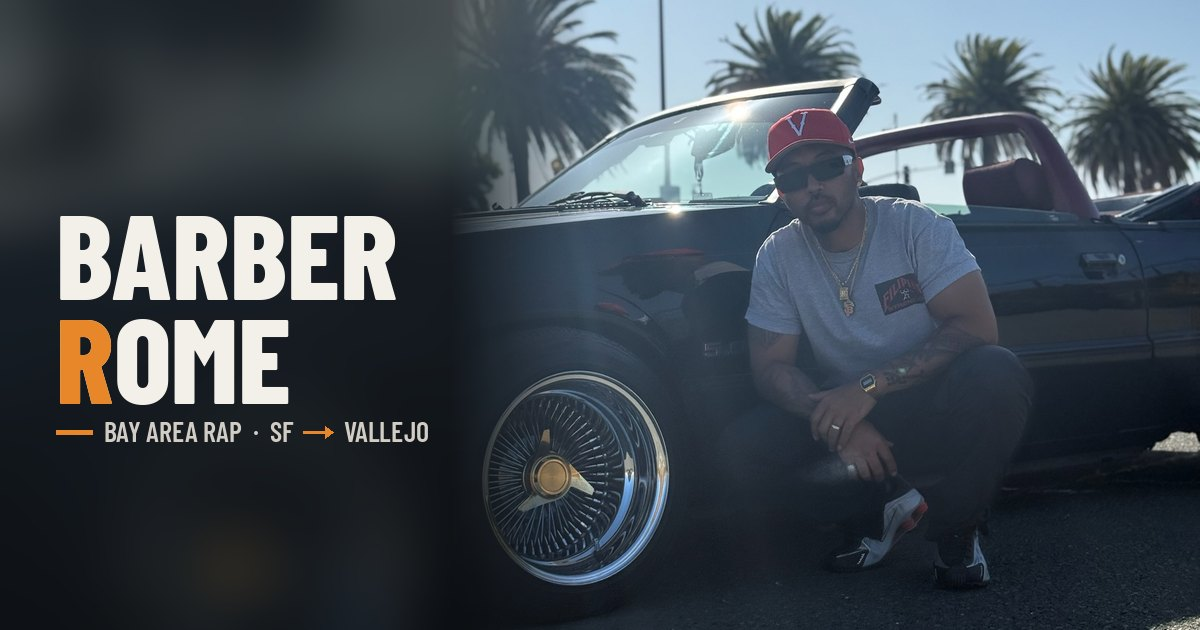
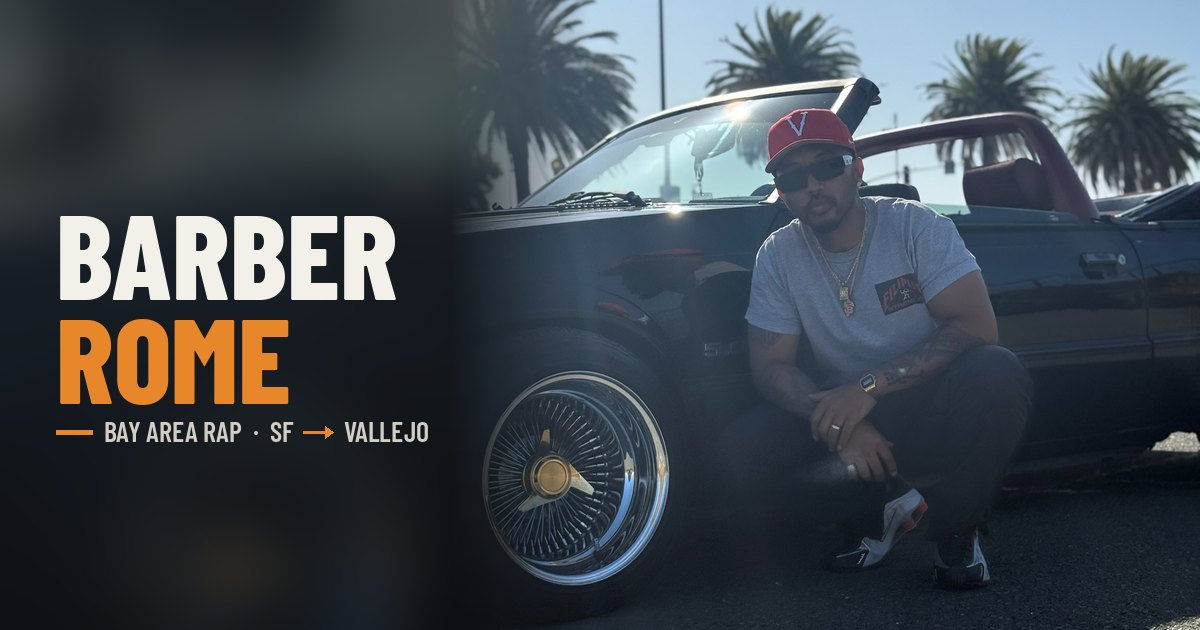
Wordmark: whole ROME in the accent orange (hero + share image); BARBER stays off-white

Changed region(s): [[0.0925, 0.4825, 0.2467, 0.6635]]

diff --git a/src/assets/css/site.css b/src/assets/css/site.css
@@ -70,8 +70,7 @@ p{margin:0 0 1em}
 .hero__cap::before{content:"";width:7px;height:7px;border-radius:50%;background:var(--red)}
 .wordmark{font-size:clamp(5.2rem,29vw,11rem);line-height:.8;letter-spacing:-.01em;margin:.15em 0 .12em;text-shadow:0 2px 30px rgba(0,0,0,.35)}
 .wordmark span{display:block}
-.wordmark .rome{color:var(--ink);-webkit-text-stroke:0}
-.wordmark .rome::first-letter{color:var(--gold)}
+.wordmark .rome{color:var(--gold);-webkit-text-stroke:0}  /* whole ROME in the accent orange (owner request, Nov 9 2026) */
 .ident{display:flex;flex-wrap:wrap;gap:.35rem .9rem;font:600 1.05rem/1.2 var(--head);letter-spacing:.14em;text-transform:uppercase;color:var(--ink-2);margin:0 0 1.2rem;padding:0;list-style:none}
 .ident li{display:flex;align-items:center;gap:.9rem}
 .ident li+li::before{content:"";width:5px;height:5px;background:var(--gold);transform:rotate(45deg)}

diff --git a/scripts/images.py b/scripts/images.py
@@ -154,8 +154,7 @@ def og():
     big = ImageFont.truetype(str(FONT / "barlow-condensed-800.woff2"), 120)
     sm = ImageFont.truetype(str(FONT / "barlow-condensed-600.woff2"), 28)
     d.text((56, 180), "BARBER", font=big, fill=(243, 240, 234))
-    d.text((56, 284), "ROME", font=big, fill=(243, 240, 234))
-    d.text((56, 284), "R", font=big, fill=ACCENT)
+    d.text((56, 284), "ROME", font=big, fill=ACCENT)                       # whole ROME orange
     d.rectangle([56, 430, 92, 434], fill=ACCENT)
     x = 104; d.text((x, 414), "BAY AREA RAP  ·  SF", font=sm, fill=(210, 205, 196))
     x += d.textlength("BAY AREA RAP  ·  SF", font=sm) + 10                 # draw the arrow (font has no →)
